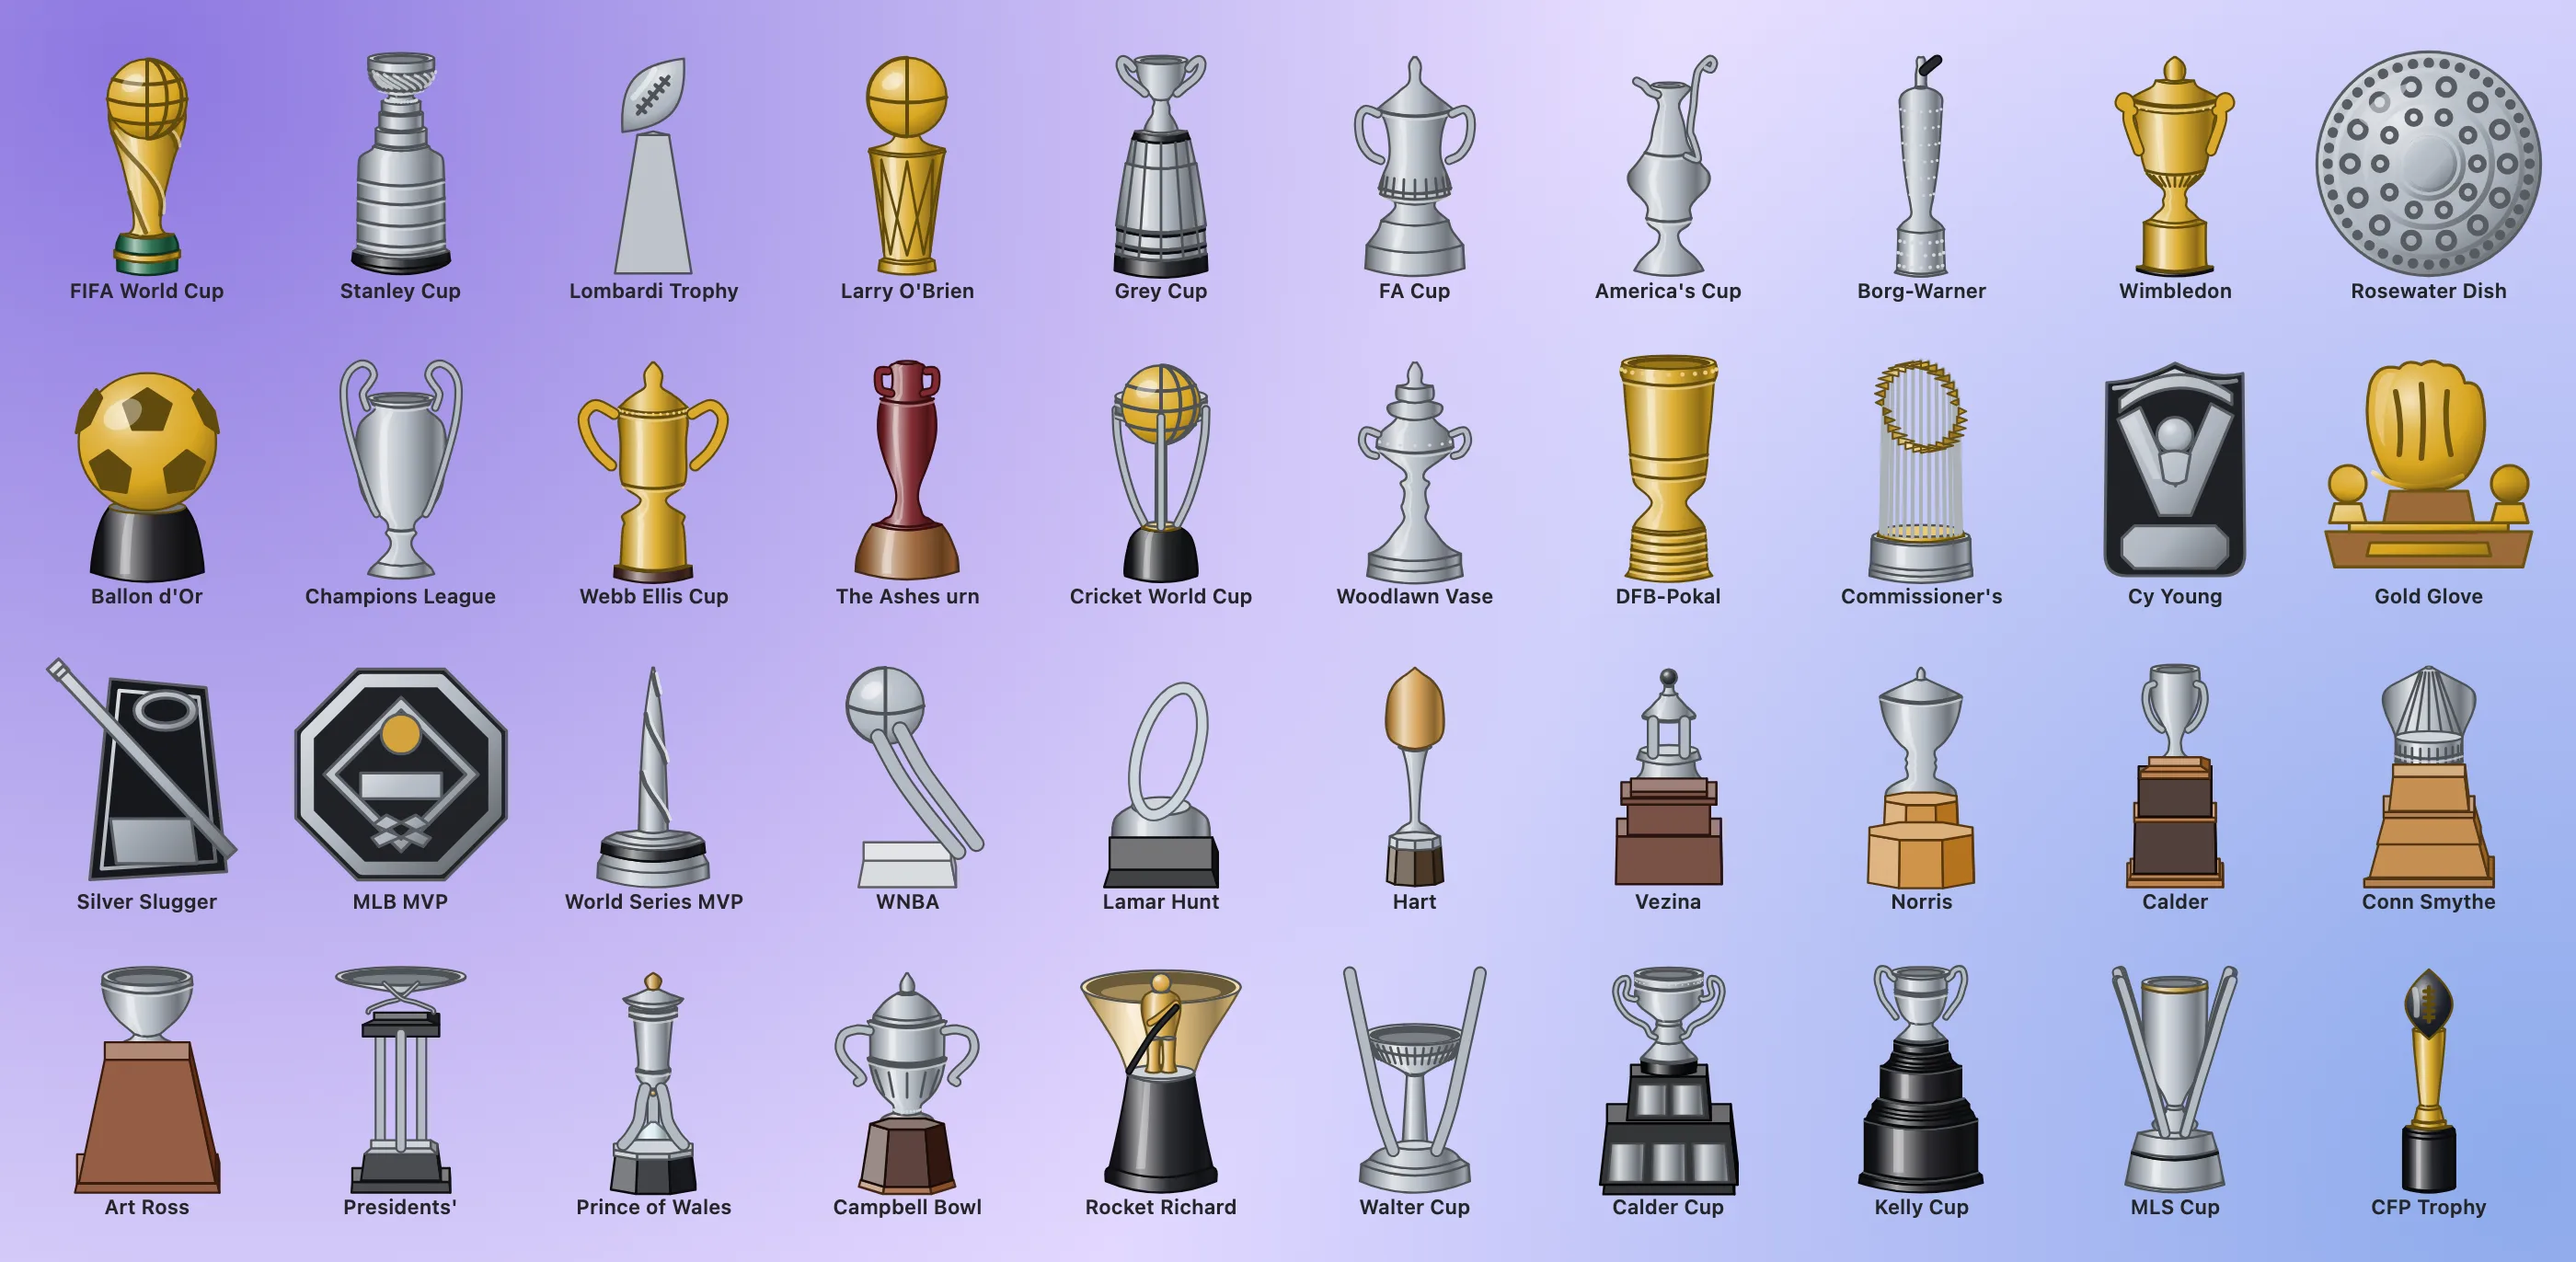
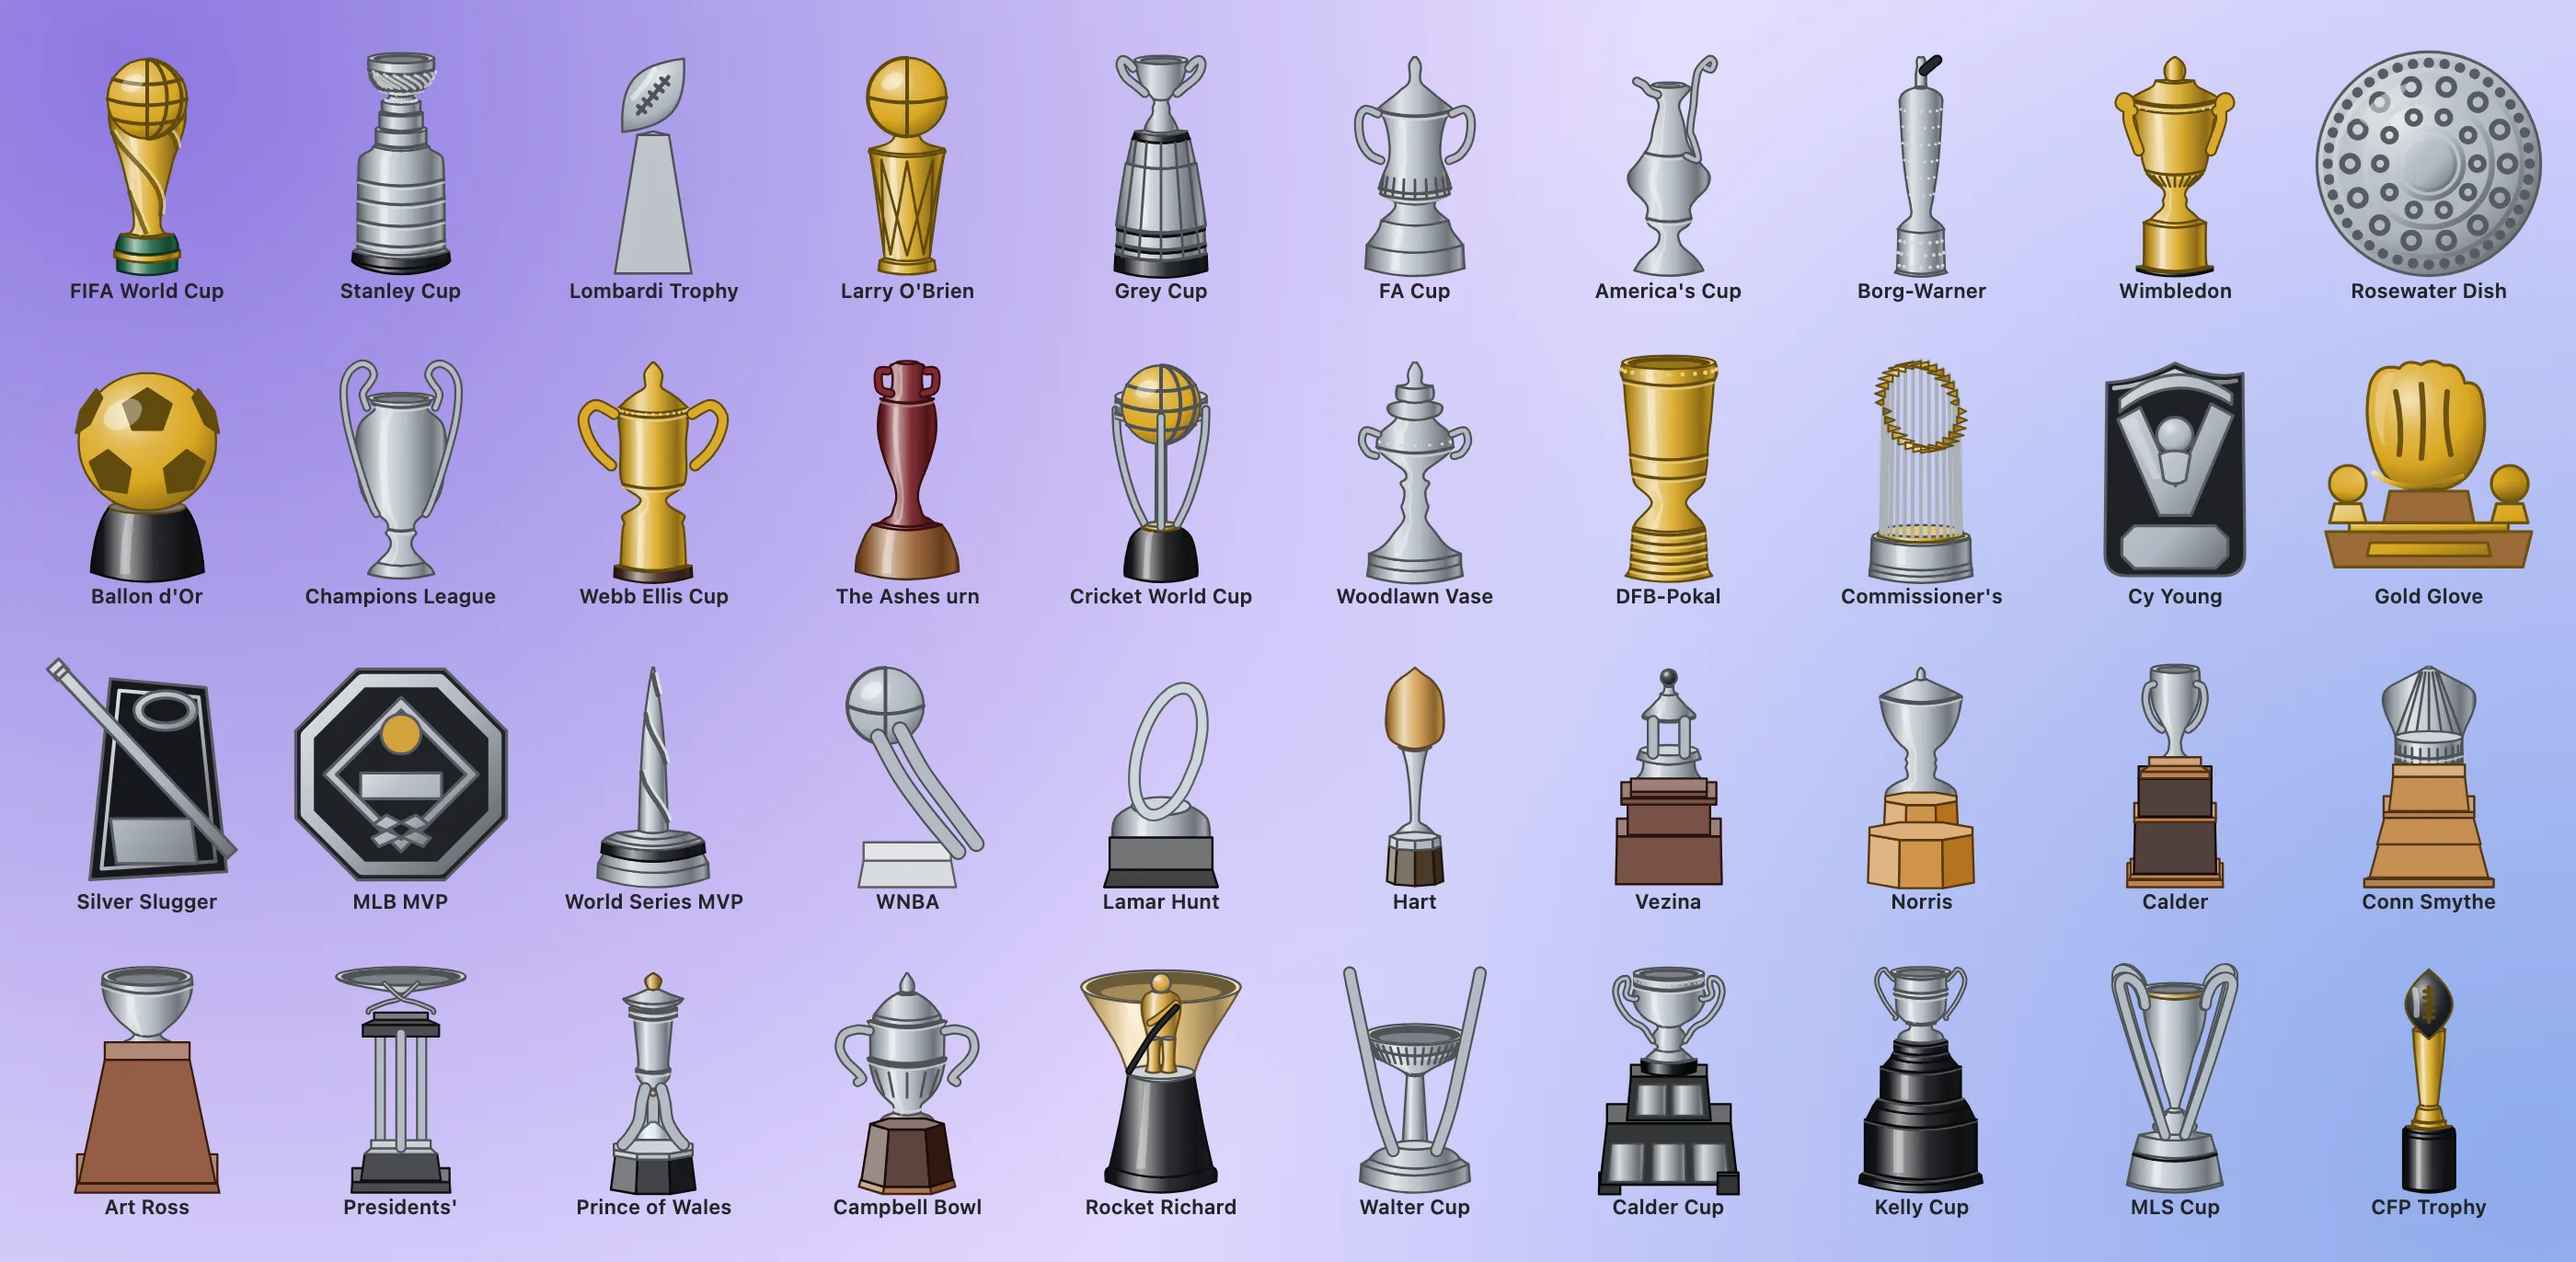
fix(trophy): Kelly beaker, Calder bowl and stem
The Kelly bowl is a straight-sided beaker with two raised ring bands, on a short neck and a domed foot, with thinner handles. The Calder bowl is a rounder hemisphere over a short chunky stem with a round knob, measured against John's photographs.

diff --git a/src/emblems/trophy/kelly-cup.ts b/src/emblems/trophy/kelly-cup.ts
@@ -6,27 +6,28 @@ import { defineLathe } from "../emblem.lathe.ts";
 export const TROPHY_KELLY_CUP = /* @__PURE__ */ defineLathe("trophy:kelly-cup", "Kelly Cup", "ケリー・カップ", "ours", {
   metal: "silver",
   box: "-1.4 -1 66.9 66.9",
-  turnBox: "-12.8 -10.3 89.7 89.7",
+  turnBox: "-12.7 -10.1 89.5 89.5",
   tones: { dark: "#17181c" },
   tilt: 9,
   solids: [
     {
       open: true,
       p: [
-        [1.7, 8.4, 1], [2.2, 8.6], [2.6, 8.4, 1], [2.9, 7.4, 1], [3.1, 7.2], [6.5, 7.2], [6.9, 7.6], [7.3, 7.2], [7.7, 7.25], [8.05, 7.6], [8.4, 7.1], [12.7, 6.8], [13.7, 6.5], [14.8, 5.75], [15.6, 4.9], [16.3, 3.7], [16.7, 3.2, 1], [17.1, 3.1],
-        [17.8, 2.8], [18, 3.2], [19.05, 4.9], [19.9, 6], [20.3, 6.3], [20.9, 6.4, 1],
+        [1.7, 8.4, 1], [2.2, 8.6], [2.6, 8.4, 1], [2.9, 7.4, 1], [3.1, 7.2], [6.2, 7.2], [6.55, 7.75], [6.9, 7.2], [7.6, 7.2], [7.95, 7.8], [8.3, 7.15], [12.9, 6.95], [13.7, 6.5], [14.8, 5.65], [15.3, 5], [15.8, 4.55], [15.9, 4.2, 1], [16.4, 4.15, 1],
+        [16.5, 3.1, 1], [18.1, 3], [18.5, 4.4], [18.9, 5.3], [19.4, 5.9], [19.9, 6.25], [20.4, 6.4], [20.9, 6.4, 1],
         [21.1, 7, 1, "dark"], [21.6, 7.5, 1, "dark"], [21.7, 7.5, 1, "main"], [22, 7.5, 1, "main"], [22.1, 7.5, 1, "dark"], [24.2, 7.5, 1, "dark"], [24.3, 7.5, 1, "main"], [24.6, 7.5, 1, "main"],
-        [24.7, 7.8, 1, "dark"], [25.4, 8.2, 1, "dark"], [26.8, 8.6, 1, "dark"], [27.8, 9.5, 1, "dark"], [28.6, 10.6, 1, "dark"],
+        [24.7, 7.8, 1, "dark"], [26.2, 8.5, 1, "dark"], [28.6, 10.6, 1, "dark"],
         [28.7, 11.35, 1, "main"], [29.1, 11.35, 1, "main"], [29.2, 11.35, 1, "dark"], [37.3, 11.4, 1, "dark"], [37.4, 11.4, 1, "main"], [37.8, 11.4, 1, "main"],
-        [37.9, 12.2, 1, "dark"], [39.5, 13.6, 1, "dark"], [40.8, 13.7, 1, "dark"], [41.8, 14.6, 1, "dark"], [43.6, 15.4, 1, "dark"],
+        [37.9, 12.2, 1, "dark"], [40, 13.6, 1, "dark"], [43.6, 15.4, 1, "dark"],
         [43.7, 15.9, 1, "main"], [44.1, 15.9, 1, "main"], [44.2, 15.9, 1, "dark"], [58.2, 15.9, 1, "dark"], [58.3, 15.9, 1, "main"], [58.7, 15.9, 1, "main"],
         [58.8, 16.2, 1, "dark"], [59.6, 17.2, 1, "dark"], [61.7, 17.5, 1, "dark"],
       ],
+      decor: [["ring", 6.7], ["ring", 8.1]],
     },
   ],
   handles: [90, -90].map((a) => ({
     a,
-    w: 0.8,
+    w: 0.42,
     pts: [[7.7, 3.9], [8.5, 3.1], [9.5, 2], [10.2, 1.1], [11.3, 1.4], [12, 2.4], [12.5, 3.9], [12.2, 6], [10.9, 8.9], [9.6, 11.1], [8.1, 13.2], [7, 14.5], [7.3, 15]] as const,
   })),
   plate: { y0: 44.2, y1: 58.2 },

diff --git a/src/emblems/trophy/calder-cup.ts b/src/emblems/trophy/calder-cup.ts
@@ -23,9 +23,9 @@ export const TROPHY_CALDER_CUP = /* @__PURE__ */ defineLathe("trophy:calder-cup"
     {
       open: true,
       p: [
-        [3, 9.5, 1], [3.5, 9.4], [6.2, 9.4, 1], [6.6, 8.9, 1], [7.6, 9.4], [8.5, 9.7], [10.5, 9.5], [12.4, 8.5], [14.1, 6.8], [15.4, 4.7], [16, 3.3, 1],
-        [16.9, 3], [17.8, 3.5], [18.8, 4.1], [19.8, 4.1], [20.8, 3.6], [21.6, 2.8], [22.3, 2.7], [22.8, 4.3], [23.3, 4.4], [24.2, 5.6], [25, 6.7], [25.7, 7.3, 1], [25.8, 7.6, 1], [26.4, 7.6, 1],
-        [26.5, 7.5, 1, "dark"], [28.5, 7.4, 0, "dark"], [29.8, 7.3, 1, "dark"],
+        [3, 9.5, 1], [3.5, 9.4], [6.2, 9.4, 1], [6.6, 8.9, 1], [7.6, 9.5], [8.8, 9.9], [10.6, 9.7], [12.4, 9], [14.2, 7.7], [15.7, 5.9], [16.7, 3.9], [17.3, 3, 1],
+        [18.1, 3], [18.7, 3.7], [19.5, 4.2], [20.5, 4.7], [21.4, 4.6], [22.1, 3.9], [22.7, 3.1], [23.3, 3], [23.8, 3.9, 1], [24.2, 4], [24.9, 5], [25.6, 5.9], [26.3, 6.4, 1],
+        [26.4, 7.5, 1, "dark"], [28.4, 7.4, 0, "dark"], [29.7, 7.3, 1, "dark"],
       ],
       decor: [["ring", 3.5], ["ring", 6.2], ["dots", 4.85, 30, 0.45]],
     },
@@ -33,7 +33,7 @@ export const TROPHY_CALDER_CUP = /* @__PURE__ */ defineLathe("trophy:calder-cup"
   handles: [90, -90].map((a) => ({
     a,
     w: 0.8,
-    pts: [[4.6, 19.9], [5.4, 19.2], [6, 18], [7.1, 16.9], [9, 16], [11.2, 14.6], [13.1, 12.3], [14, 10.3], [14.5, 8], [14.1, 6], [13.1, 4.8], [11.7, 4.4], [11.1, 5.05], [11.2, 6.6], [11.7, 8.5], [11.1, 9.6], [9.4, 10.05], [8.8, 9.9]] as const,
+    pts: [[4.4, 21.4], [4.7, 20.9], [5.5, 19.8], [6.2, 18.6], [7.4, 17.4], [9.4, 16.4], [11.2, 14.9], [13.1, 12.3], [14, 10.3], [14.5, 8], [14.1, 6], [13.1, 4.8], [11.7, 4.4], [11.1, 5.05], [11.2, 6.6], [11.7, 8.5], [11.1, 9.6], [9.4, 10.05], [8.8, 9.9]] as const,
   })),
   plate: { y0: 46.5, y1: 56.5, face: 0 },
 });
